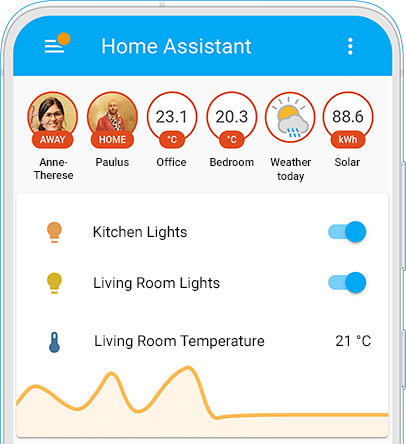
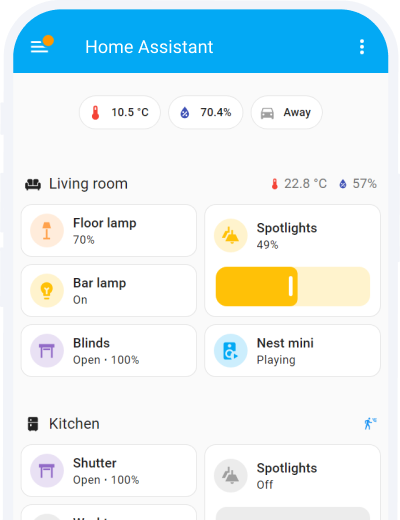
Better mobile screenshot and hero section layout

Changed region(s): [[0.0, 0.0, 1.0, 1.0], [0.81, 0.732, 0.9, 0.7905]]

diff --git a/sass/homeassistant/homepage/_hero_unit.scss b/sass/homeassistant/homepage/_hero_unit.scss
@@ -216,6 +216,11 @@
 
 @media only screen and (max-width: 760px) {
   .hero {
+    text-align: center;
+
+    .hero-socialproof, .hero-buttons {
+      align-items: center;
+    } 
 
     min-height: 940px;
     .flex {
@@ -227,7 +232,9 @@
     }
 
     #HAdemoScreenshot {
-      display: block;
+      display: inline-block;
+      text-align: center;
+      padding-top: 48px;
     }
   }
 }
